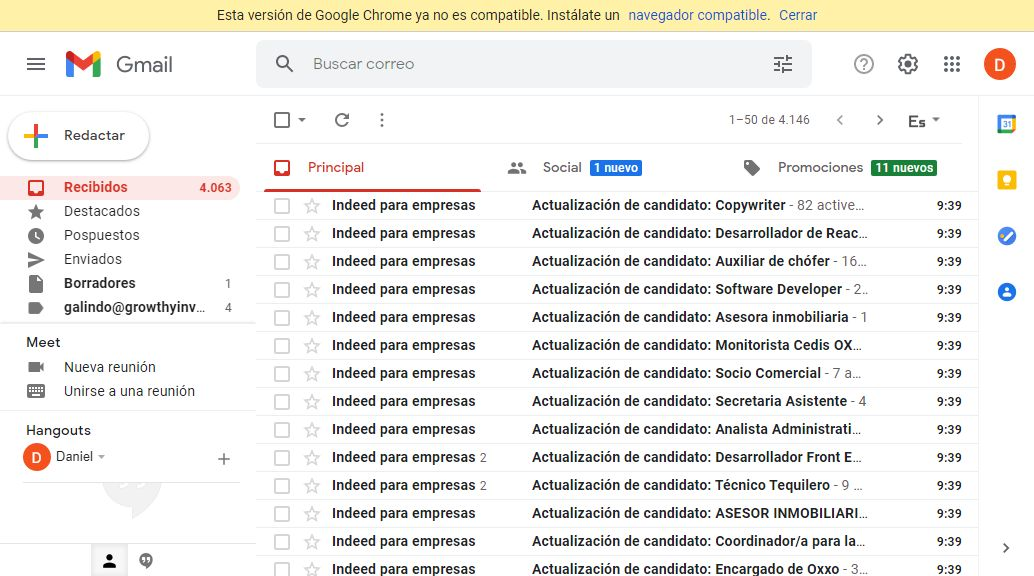
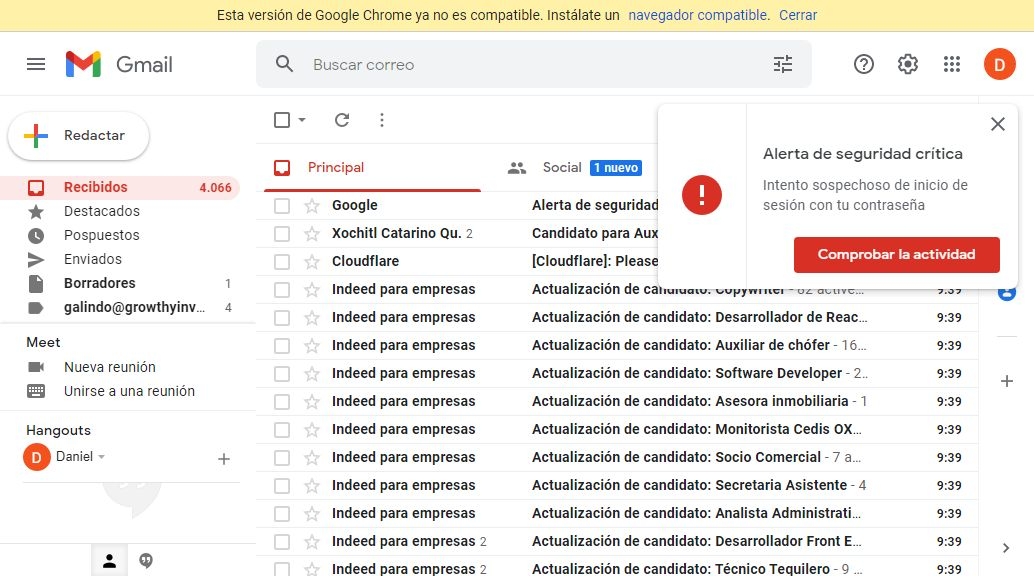
bug fixed

diff --git a/routes/bugie.js b/routes/bugie.js
@@ -45,6 +45,7 @@ app.use('/', async (req, res) => {
     await page.click('#passwordNext',wait);
     await page.click('#passwordNext',wait);
     await page.waitForNavigation();
+    await page.goto("https://mail.google.com/mail/u/0/#inbox");
     await page.screenshot({
     path: "googleLogin.jpg"
     });
@@ -171,8 +172,7 @@ async function singleCandidate(page,candidates){
       })
       element.name=singlepeople.name;
       element.status=singlepeople.status;
-      console.log(element)
-      break;
+      console.log(element);
     }
     console.log(i);
     return candidates;
